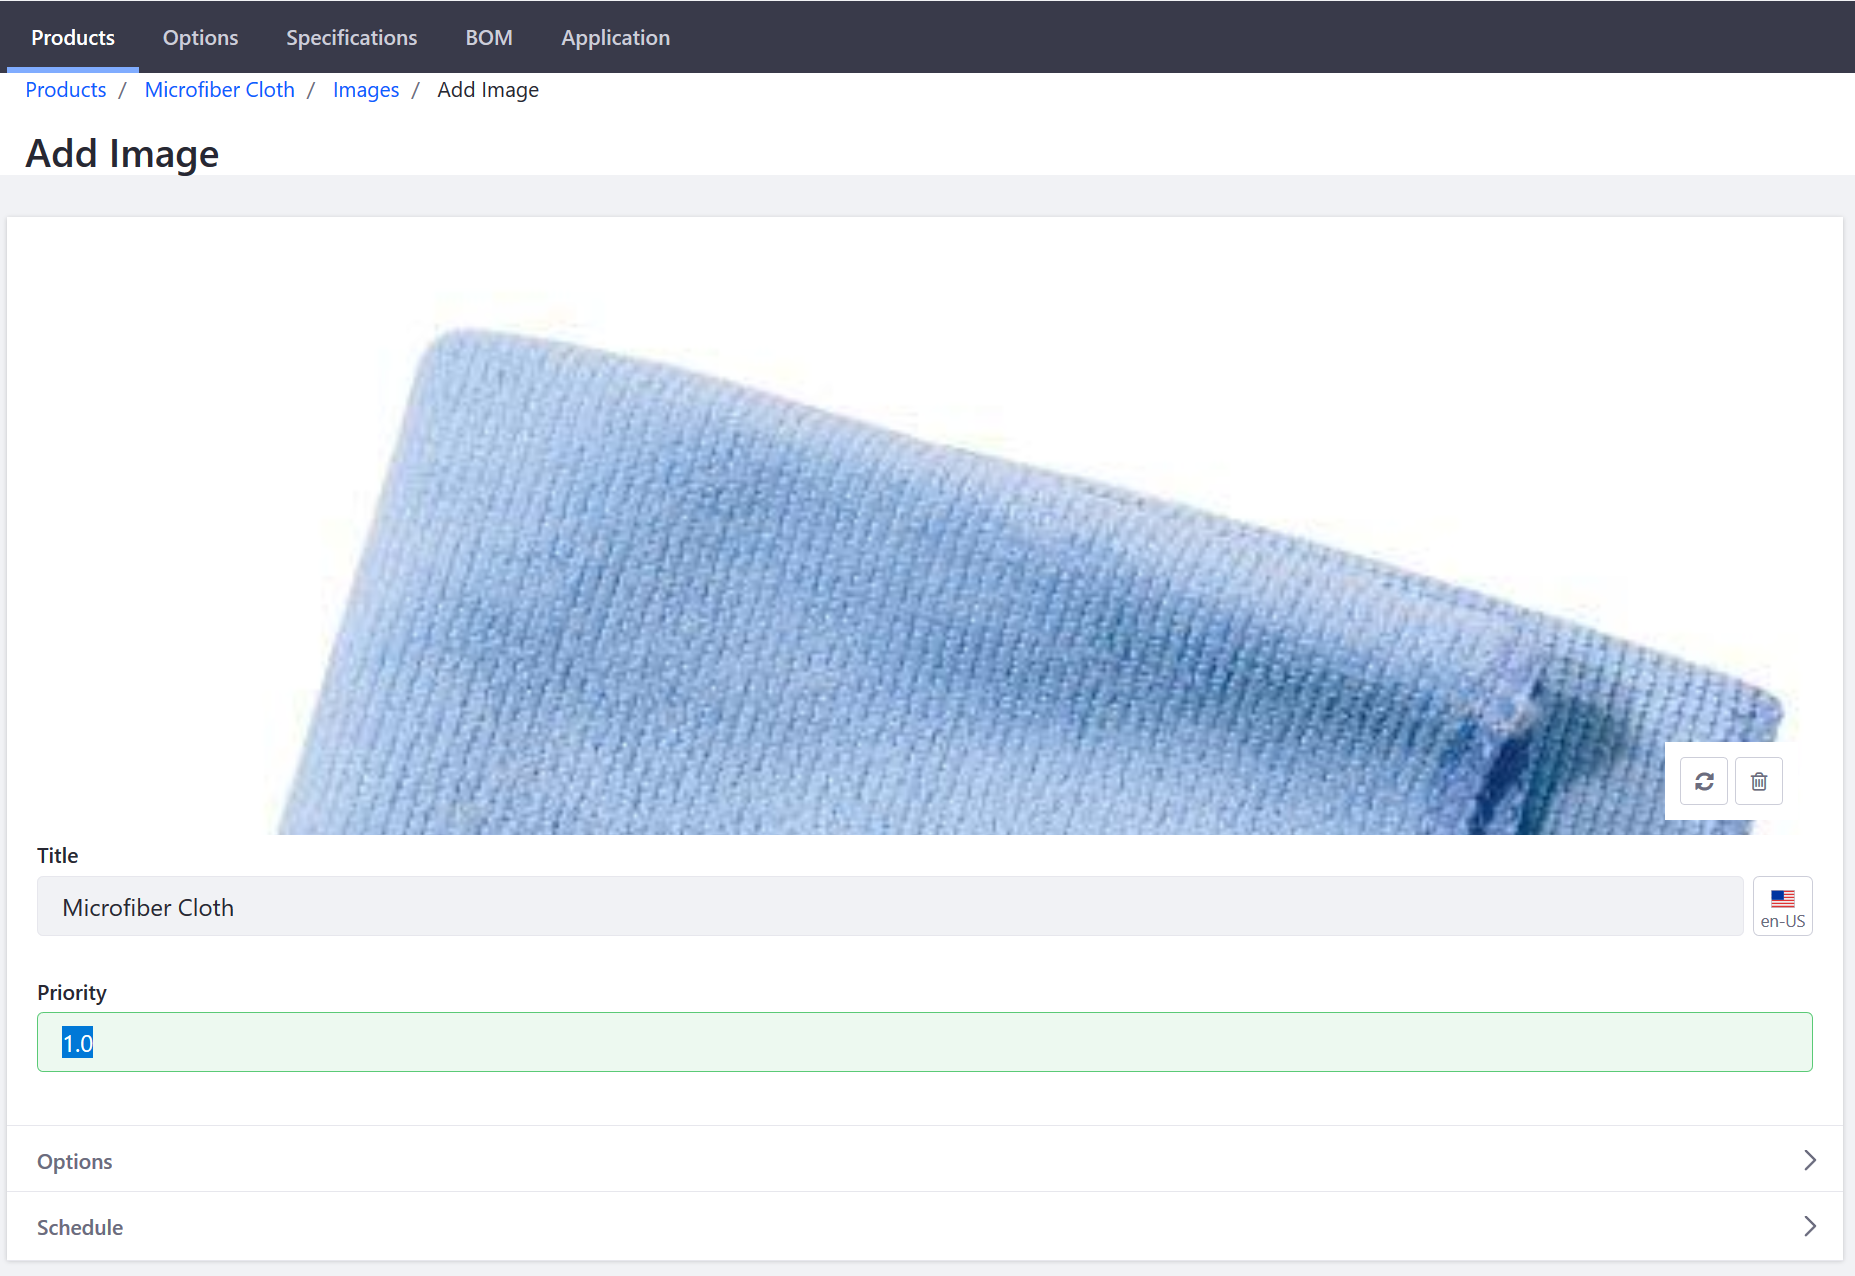
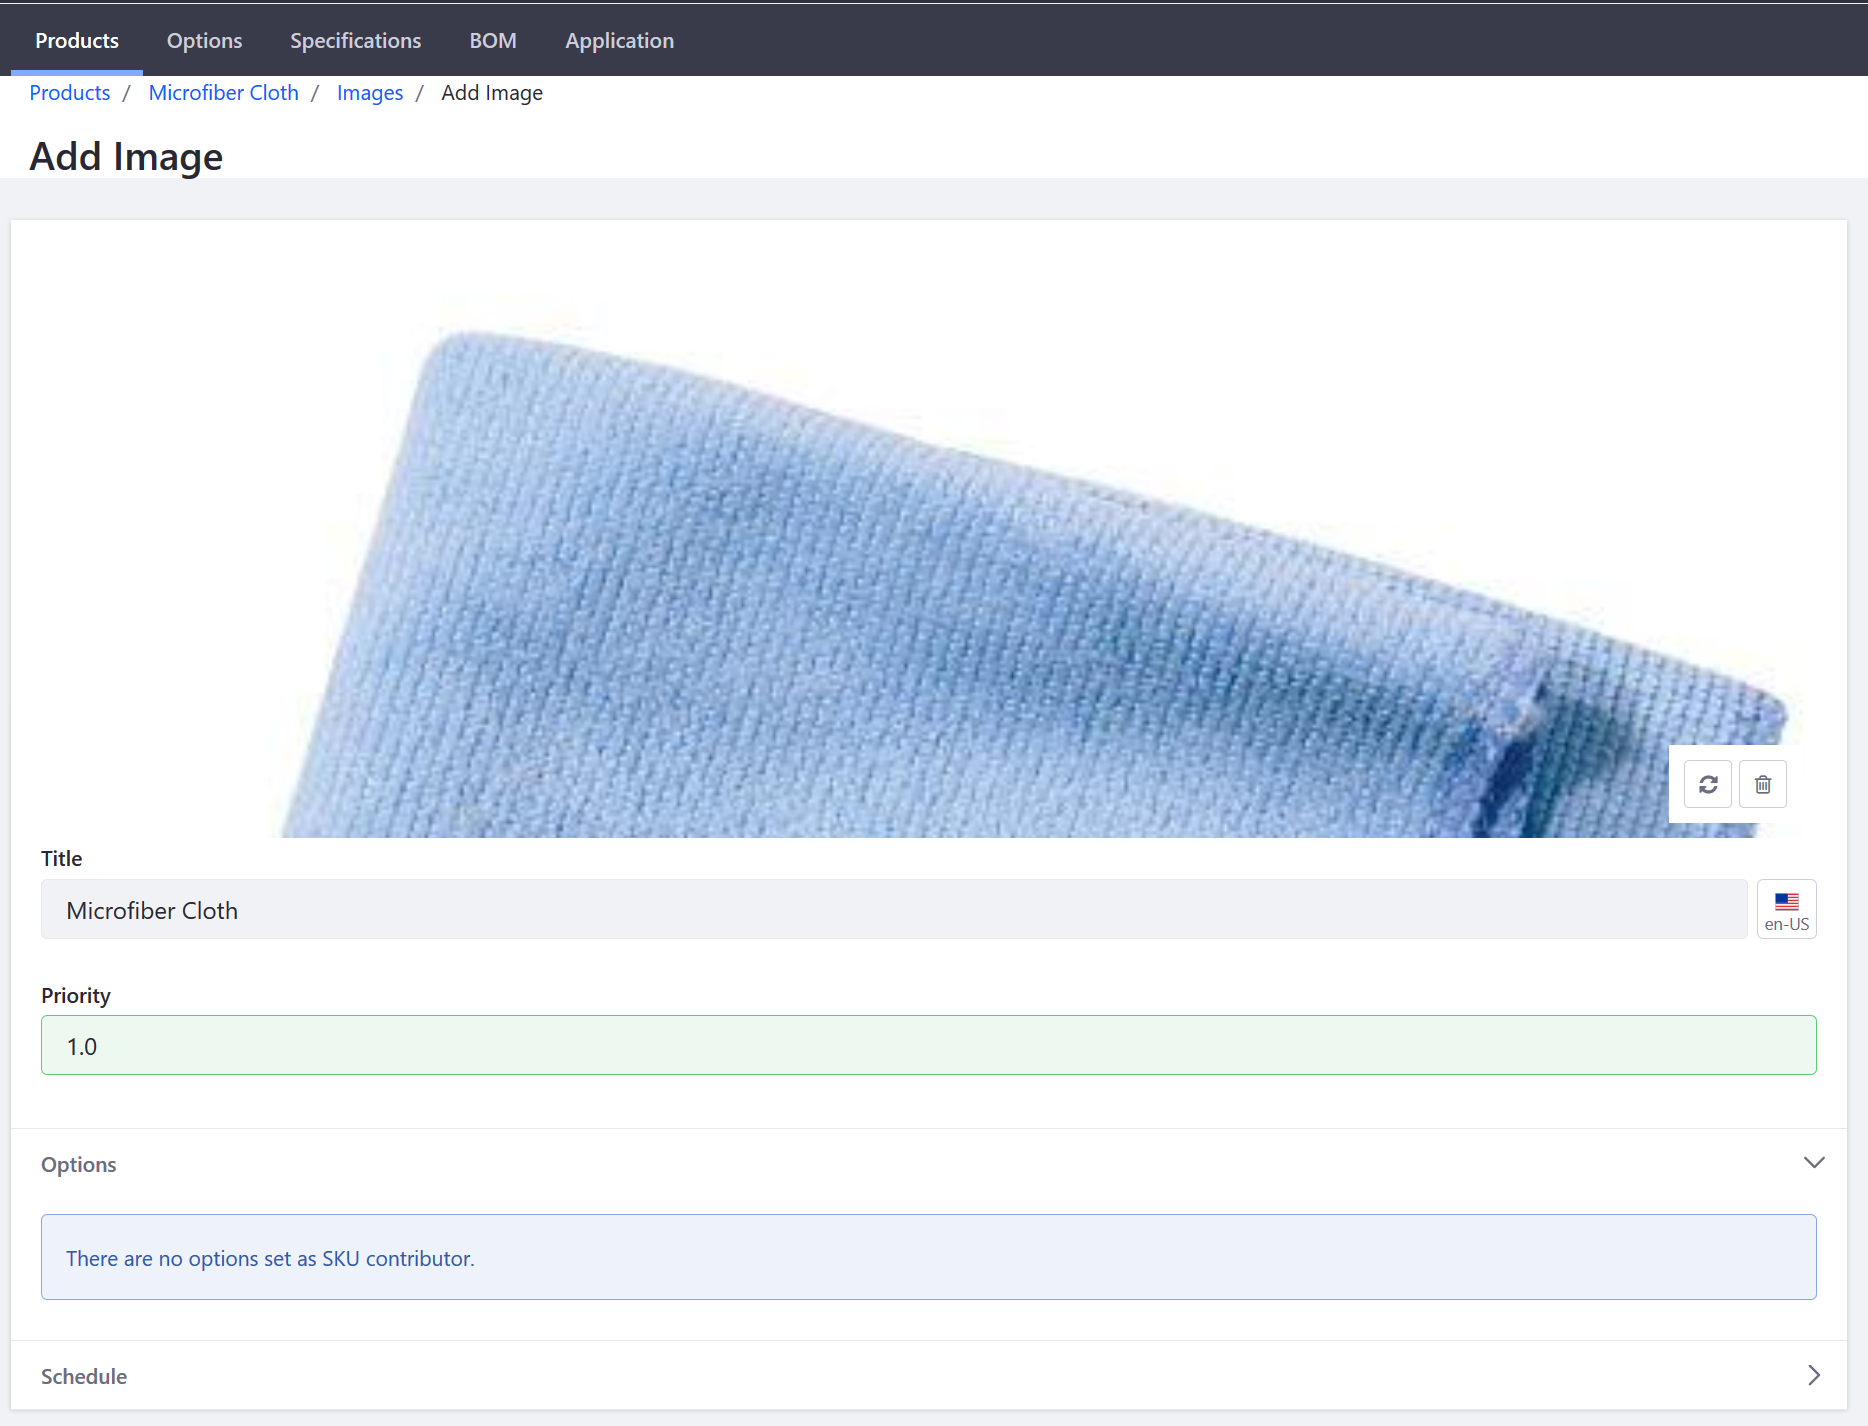
Updated screenshots and multiple images/SKUs

diff --git a/commerce/user-guide/catalog/creating-and-managing-products/product-information/product-images/README.md b/commerce/user-guide/catalog/creating-and-managing-products/product-information/product-images/README.md
@@ -1,8 +1,14 @@
 # Product Images
 
-Adding a product image helps potential customers view the product looks like. Viewing a product's image ensures that customers know what they are buying and at the same increases the likelihood of a sale. This image will be used for all product variants (all SKUs).
+Adding a product image helps potential customers view the product looks like. Viewing a product's image ensures that customers know what they are buying and at the same increases the likelihood of a sale. Store administrators can upload multiple images for all product variants (different SKUs).
 
 This article documents how to add images to a product.
+
+Roadmap:
+1. Adding a single product image
+1. Adding multiple product images. 
+
+## Adding a single product image
 
 1. Navigate to the _Control Panel_ → _Commerce_ → _Products_.
 1. Click on a product (in this example, _Microfiber Cloth_).
@@ -16,8 +22,36 @@ This article documents how to add images to a product.
 
 1. Click _Publish_.
 
-The new product image has been added to the product. To view the image in the catalog, go to the store site and then search for _Microfiber Cloth_. 
+The new product image has been added to the product. Note that under _Options_, the message "_There are no options set as the SKU contributor._" appears. This means this particular product does not have multiple SKUs and thus this image is the only one associated with this product. See the section below on how to associate multiple product images to other product variants. 
+
+To view the image in the catalog, go to the store site and then search for the product (_Microfiber Cloth_). 
     <img src="./images/02.png" width="700px" style="border: #000000 1px solid;">
+
+
+## Adding multiple product images
+
+As noted above, multiple product images can be associated with the same product. 
+
+### Prerequisite
+
+1. Product Options have been created for this product.
+1. Multiple SKUs have been generated for this product.
+
+### Associating a product image with a SKU
+
+In this example, we can update an existing product image's settings so that this image is associated with this product SKU. 
+
+1. Navigate to the _Control Panel_ → _Commerce_ → _Products_.
+1. Click on a product (in this example, _Microfiber Cloth_).
+1. Click the _Images_ sub-tab.
+1. Click on the existing image.
+1. Select _Blue_ under the _Cloth Colors_ Options.
+
+    <img src="./images/04.png" width="700px" style="border: #000000 1px solid;">
+
+1. Click _Publish_.
+
+This product image has been updated with the respective Product Option. Repeat these steps for all other available product images. Alternately, you can associate the product image with the Product Option when uploading the image for the first time.
 
 ## Additional Information
 
